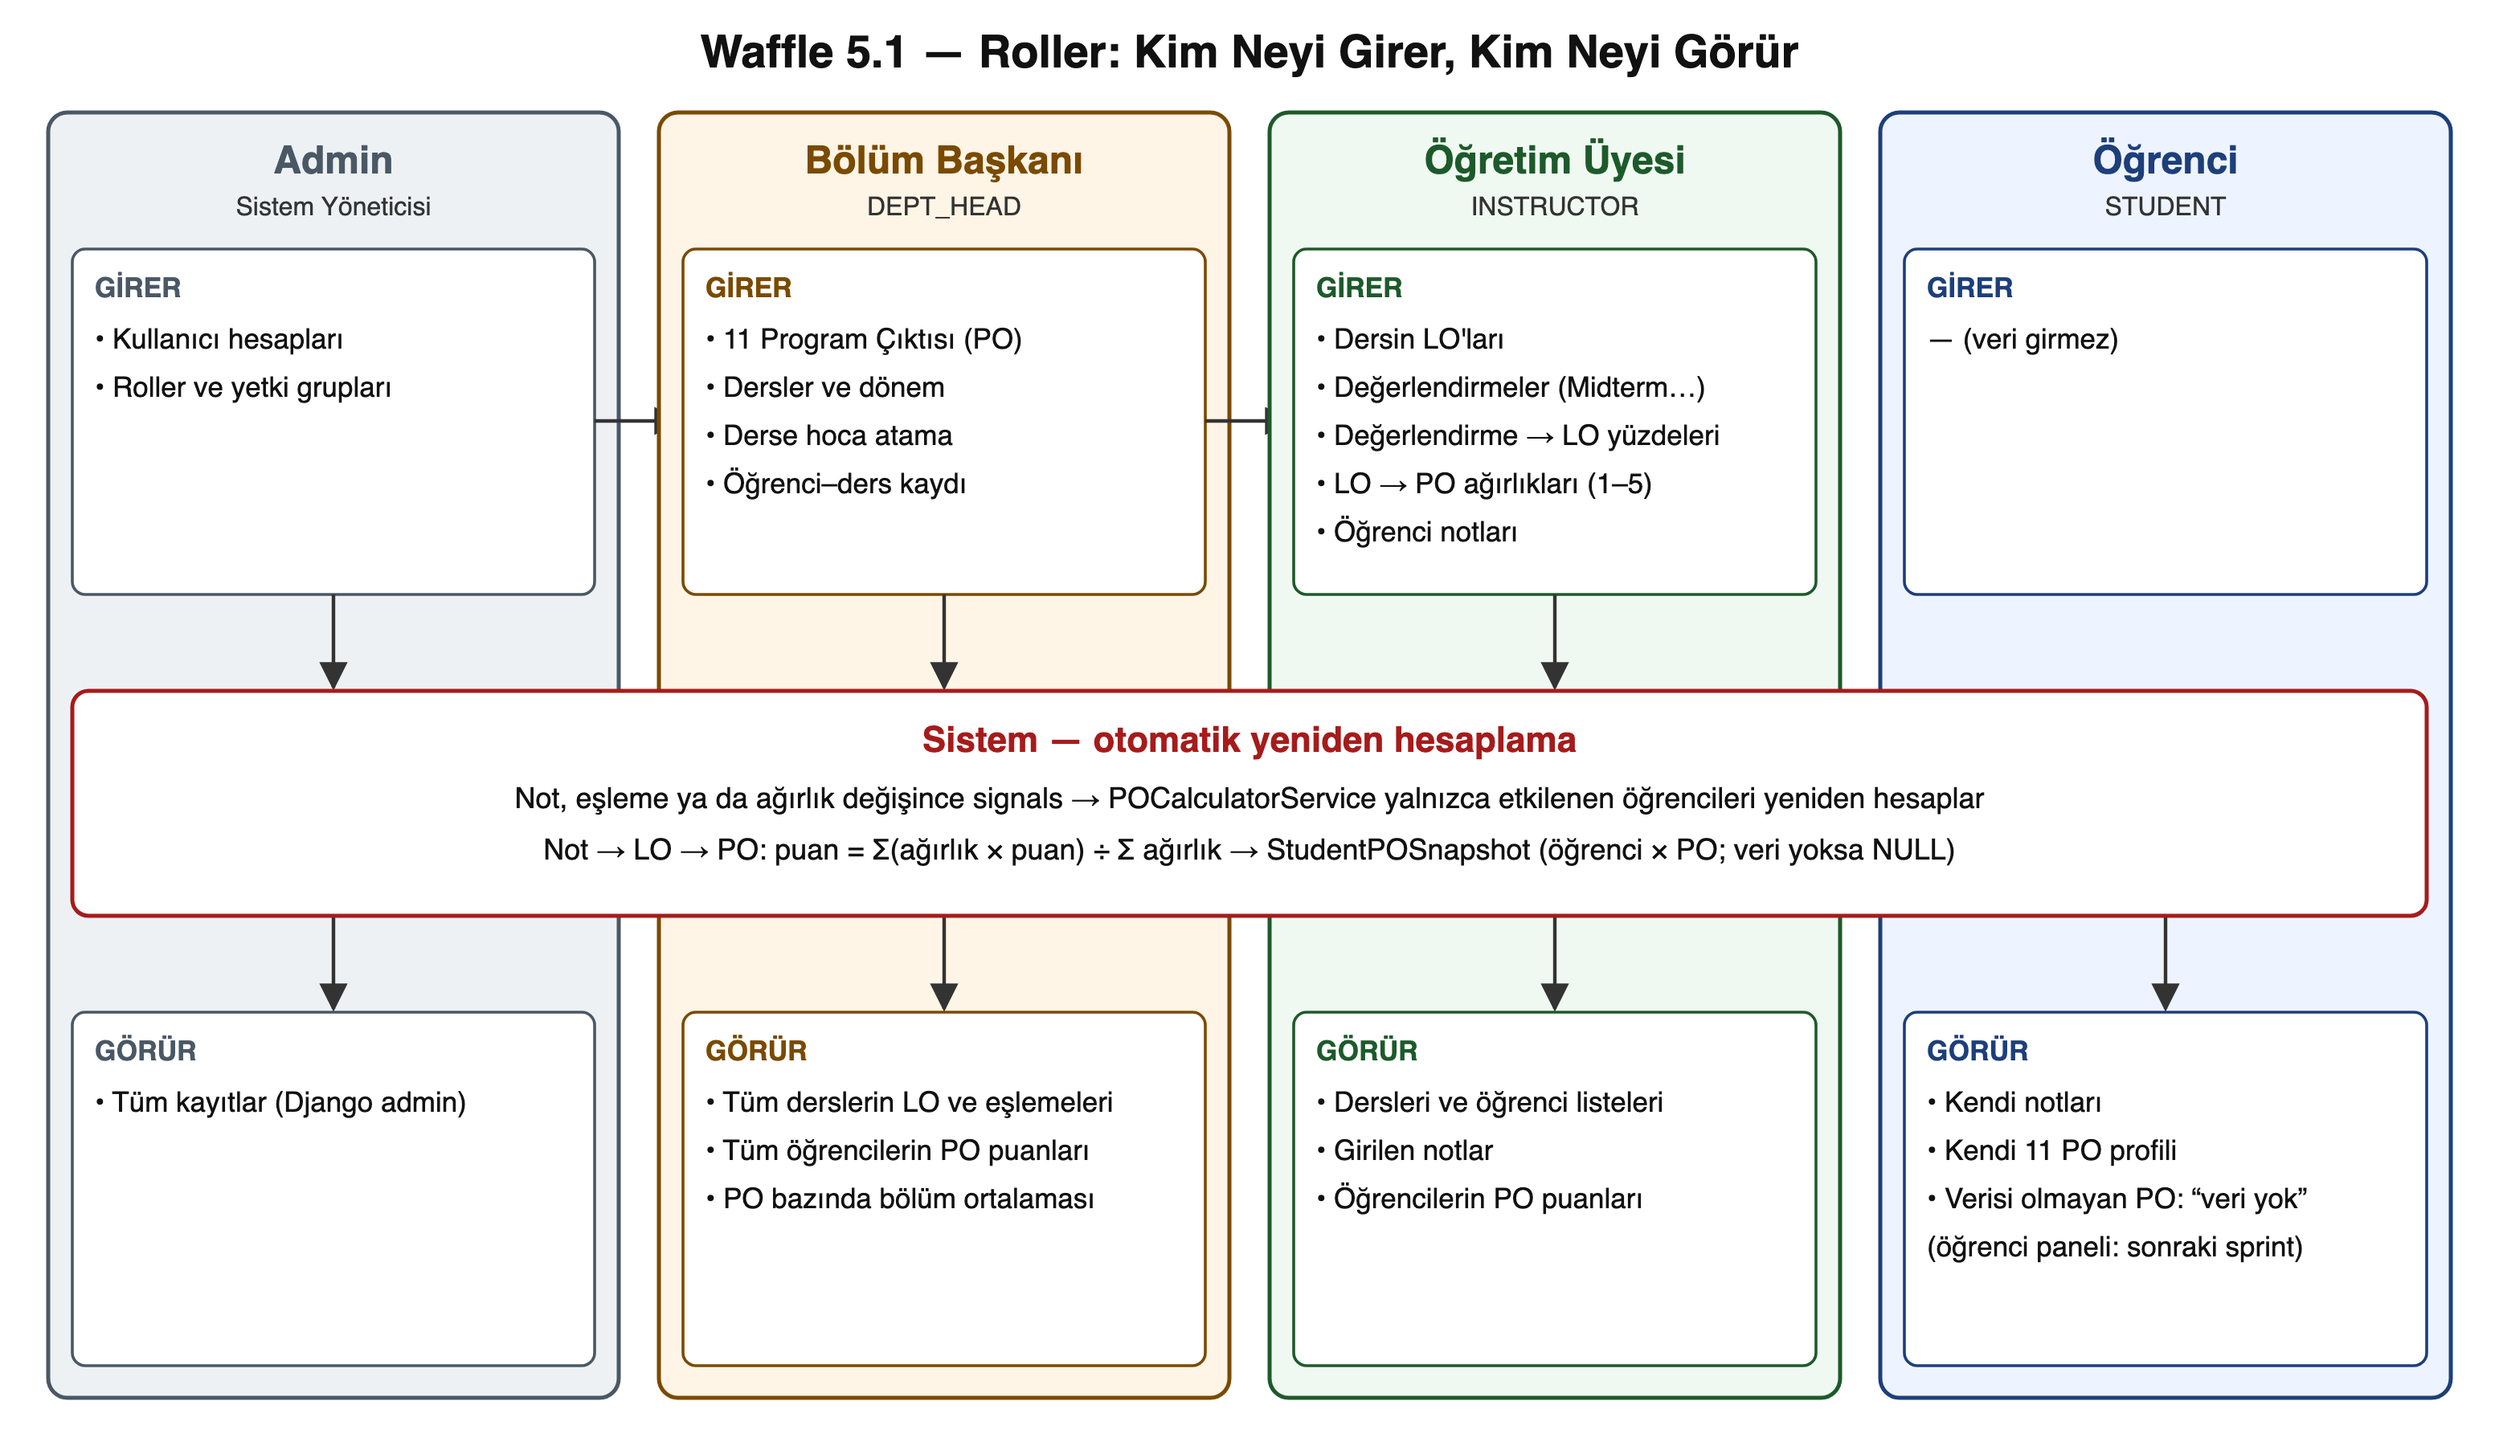
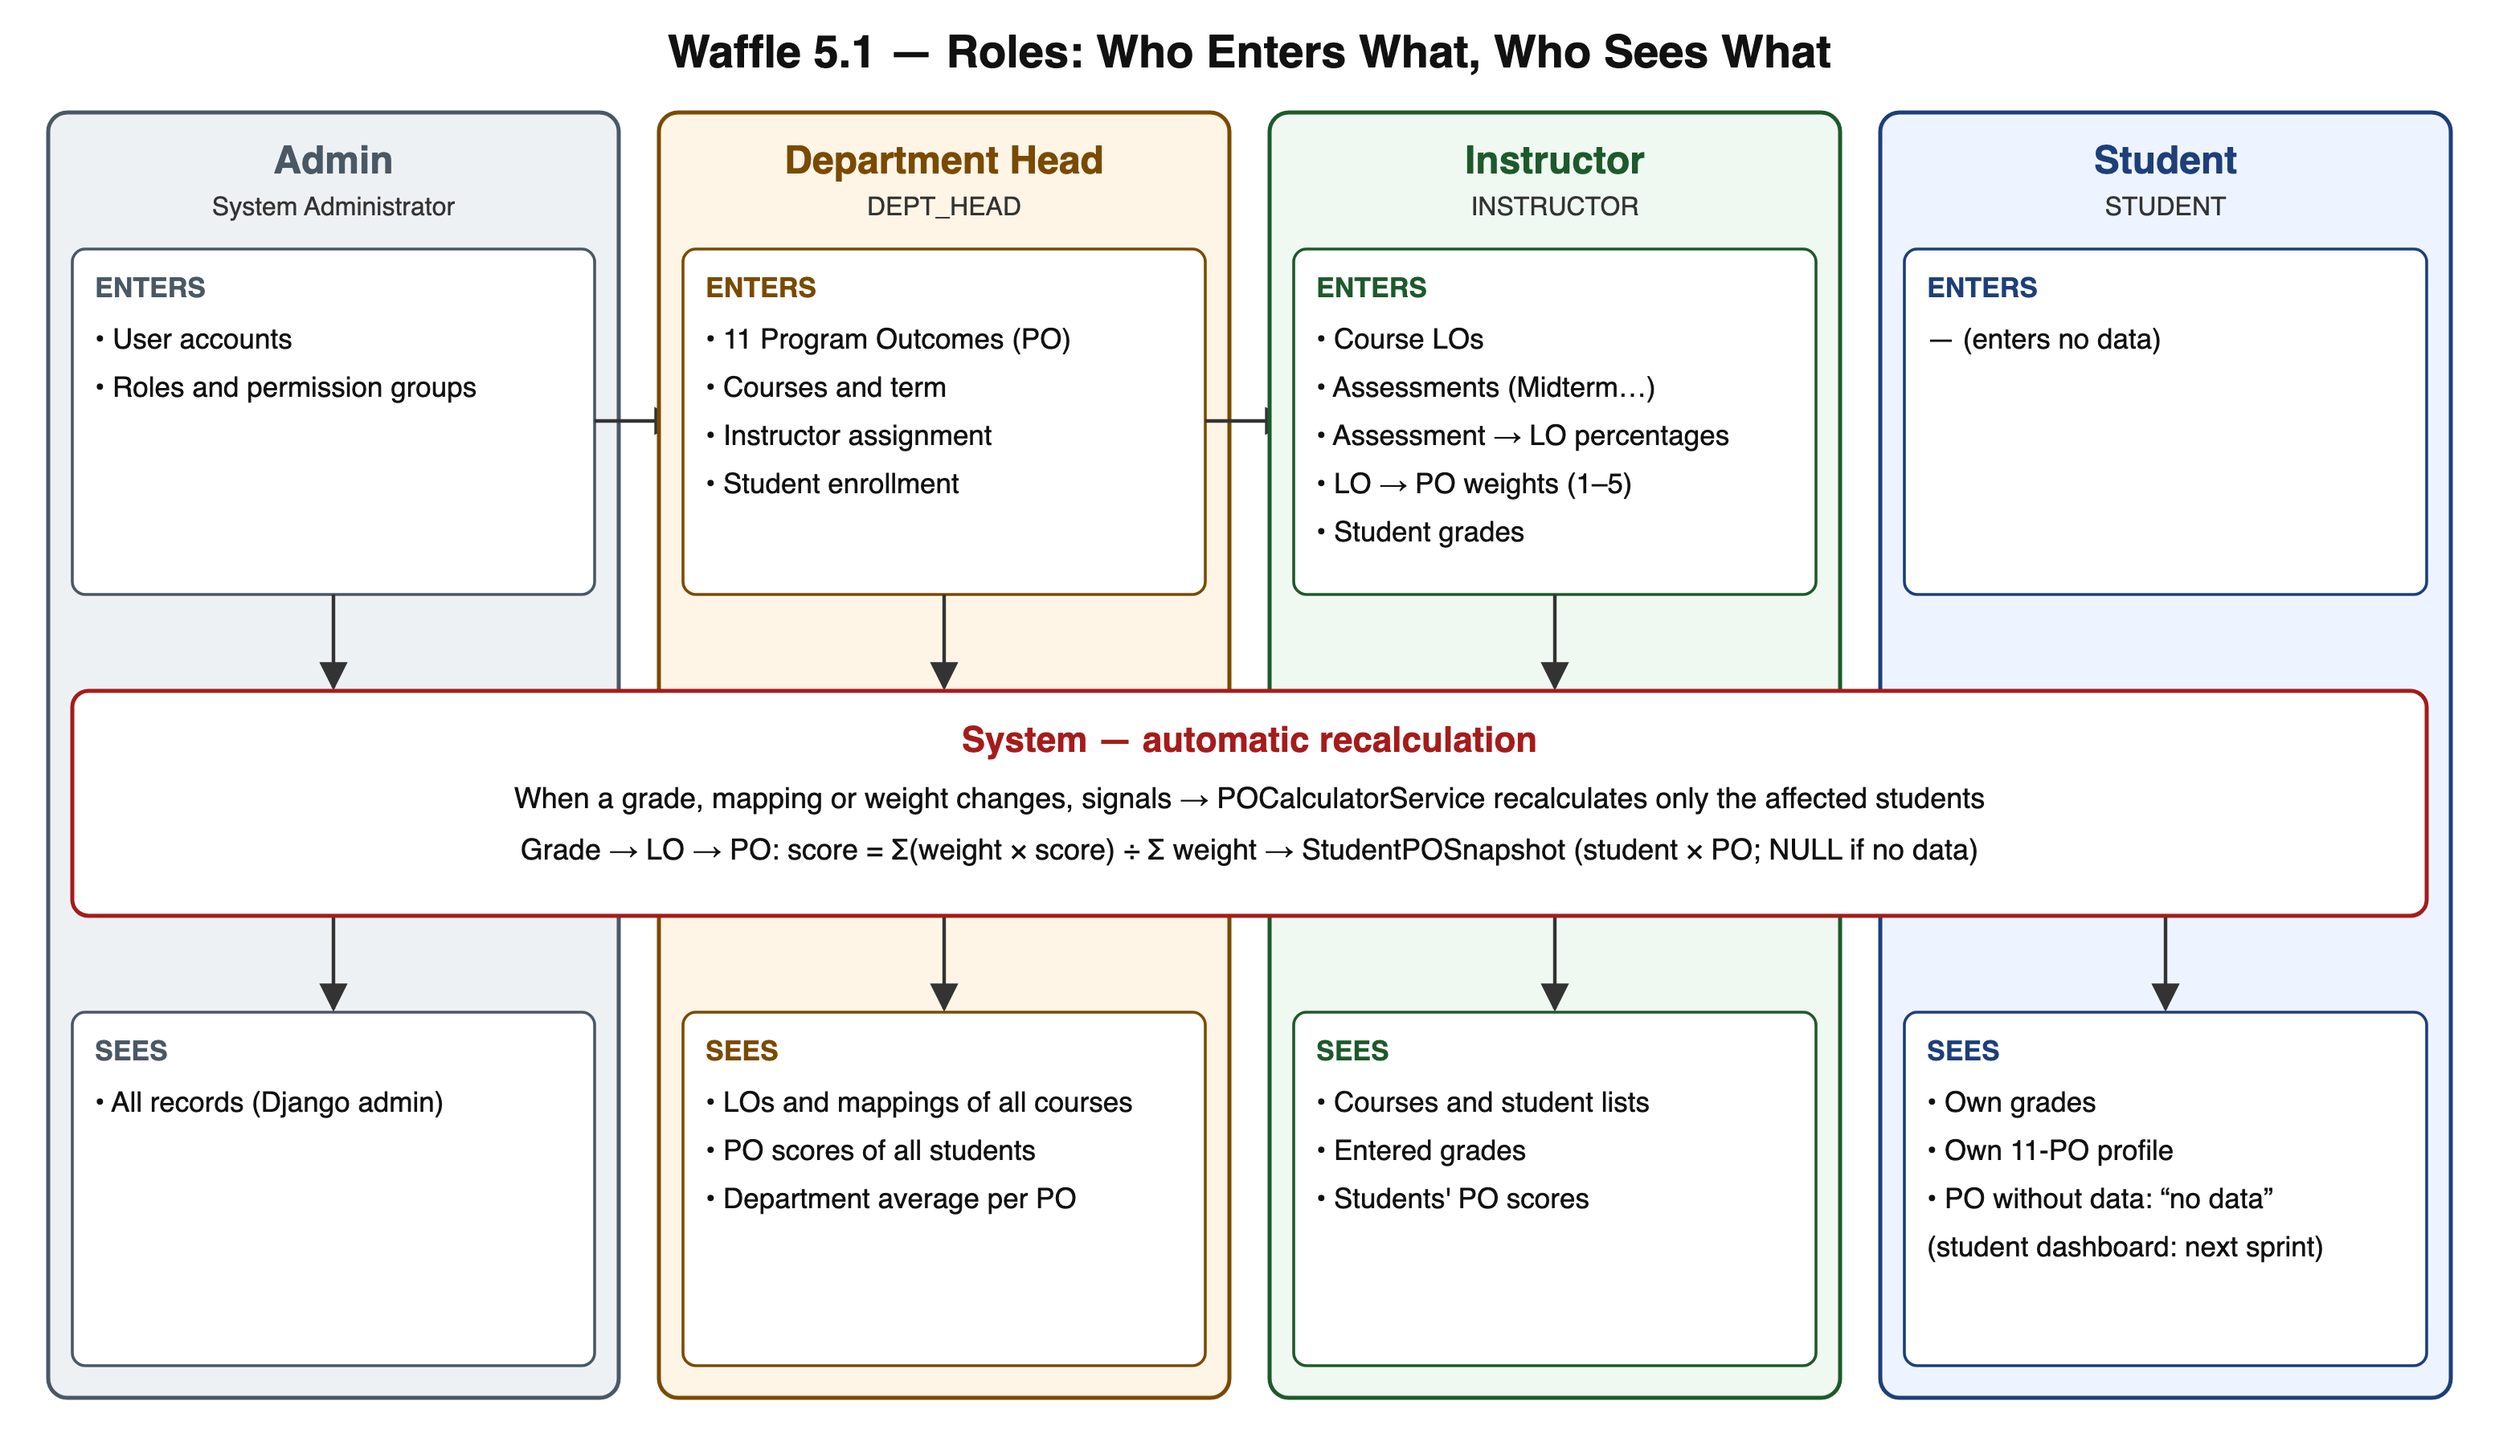
docs: translate role flow diagram to English

diff --git a/docs/diagrams/_gen_roles.py b/docs/diagrams/_gen_roles.py
@@ -3,24 +3,24 @@ from pathlib import Path
 
 LW, GAP, X0 = 355, 25, 30
 LANES = [
-    ("Admin", "Sistem Yöneticisi", "#4a5866", "#eef1f4",
-     ["Kullanıcı hesapları", "Roller ve yetki grupları"],
-     ["Tüm kayıtlar (Django admin)"]),
-    ("Bölüm Başkanı", "DEPT_HEAD", "#7a4a00", "#fff5e6",
-     ["11 Program Çıktısı (PO)", "Dersler ve dönem", "Derse hoca atama", "Öğrenci–ders kaydı"],
-     ["Tüm derslerin LO ve eşlemeleri", "Tüm öğrencilerin PO puanları", "PO bazında bölüm ortalaması"]),
-    ("Öğretim Üyesi", "INSTRUCTOR", "#1d5a2b", "#f0f9f1",
-     ["Dersin LO'ları", "Değerlendirmeler (Midterm…)", "Değerlendirme → LO yüzdeleri", "LO → PO ağırlıkları (1–5)", "Öğrenci notları"],
-     ["Dersleri ve öğrenci listeleri", "Girilen notlar", "Öğrencilerin PO puanları"]),
-    ("Öğrenci", "STUDENT", "#1d3f7a", "#eef4ff",
-     ["— (veri girmez)"],
-     ["Kendi notları", "Kendi 11 PO profili", "Verisi olmayan PO: “veri yok”", "(öğrenci paneli: sonraki sprint)"]),
+    ("Admin", "System Administrator", "#4a5866", "#eef1f4",
+     ["User accounts", "Roles and permission groups"],
+     ["All records (Django admin)"]),
+    ("Department Head", "DEPT_HEAD", "#7a4a00", "#fff5e6",
+     ["11 Program Outcomes (PO)", "Courses and term", "Instructor assignment", "Student enrollment"],
+     ["LOs and mappings of all courses", "PO scores of all students", "Department average per PO"]),
+    ("Instructor", "INSTRUCTOR", "#1d5a2b", "#f0f9f1",
+     ["Course LOs", "Assessments (Midterm…)", "Assessment → LO percentages", "LO → PO weights (1–5)", "Student grades"],
+     ["Courses and student lists", "Entered grades", "Students' PO scores"]),
+    ("Student", "STUDENT", "#1d3f7a", "#eef4ff",
+     ["— (enters no data)"],
+     ["Own grades", "Own 11-PO profile", "PO without data: “no data”", "(student dashboard: next sprint)"]),
 ]
 W = X0 * 2 + 4 * LW + 3 * GAP
 o = [f'<svg xmlns="http://www.w3.org/2000/svg" viewBox="0 0 {W} 900" font-family="Helvetica, Arial, sans-serif">',
      '<defs><marker id="a" viewBox="0 0 10 10" refX="9" refY="5" markerWidth="8" markerHeight="8" orient="auto"><path d="M0 0L10 5L0 10z" fill="#333"/></marker></defs>',
      f'<rect width="{W}" height="900" fill="#fff"/>',
-     f'<text x="{W/2}" y="42" text-anchor="middle" font-size="28" font-weight="bold" fill="#111">Waffle 5.1 — Roller: Kim Neyi Girer, Kim Neyi Görür</text>']
+     f'<text x="{W/2}" y="42" text-anchor="middle" font-size="28" font-weight="bold" fill="#111">Waffle 5.1 — Roles: Who Enters What, Who Sees What</text>']
 
 
 def box(x, y, w, hgt, title, items, stroke):
@@ -36,8 +36,8 @@ for i, (name, sub, stroke, fill, enters, sees) in enumerate(LANES):
     o.append(f'<rect x="{x}" y="70" width="{LW}" height="800" rx="12" fill="{fill}" stroke="{stroke}" stroke-width="2.5"/>')
     o.append(f'<text x="{x+LW/2}" y="108" text-anchor="middle" font-size="24" font-weight="bold" fill="{stroke}">{name}</text>')
     o.append(f'<text x="{x+LW/2}" y="134" text-anchor="middle" font-size="16" fill="#333">{sub}</text>')
-    box(x + 15, 155, LW - 30, 215, "GİRER", enters, stroke)
-    box(x + 15, 630, LW - 30, 220, "GÖRÜR", sees, stroke)
+    box(x + 15, 155, LW - 30, 215, "ENTERS", enters, stroke)
+    box(x + 15, 630, LW - 30, 220, "SEES", sees, stroke)
     cx = x + LW / 2
     if i < 3:
         o.append(f'<line x1="{cx}" y1="370" x2="{cx}" y2="428" stroke="#333" stroke-width="2.2" marker-end="url(#a)"/>')
@@ -46,8 +46,8 @@ for i, (name, sub, stroke, fill, enters, sees) in enumerate(LANES):
         o.append(f'<line x1="{x+LW-15}" y1="262" x2="{x+LW+GAP+13}" y2="262" stroke="#333" stroke-width="2.2" marker-end="url(#a)"/>')
 
 o.append(f'<rect x="{X0+15}" y="430" width="{W-2*X0-30}" height="140" rx="10" fill="#fff" stroke="#a61b1b" stroke-width="2.5"/>')
-o.append(f'<text x="{W/2}" y="468" text-anchor="middle" font-size="22" font-weight="bold" fill="#a61b1b">Sistem — otomatik yeniden hesaplama</text>')
-o.append(f'<text x="{W/2}" y="503" text-anchor="middle" font-size="18" fill="#111">Not, eşleme ya da ağırlık değişince signals → POCalculatorService yalnızca etkilenen öğrencileri yeniden hesaplar</text>')
-o.append(f'<text x="{W/2}" y="535" text-anchor="middle" font-size="18" fill="#111">Not → LO → PO:  puan = Σ(ağırlık × puan) ÷ Σ ağırlık   →   StudentPOSnapshot (öğrenci × PO; veri yoksa NULL)</text>')
+o.append(f'<text x="{W/2}" y="468" text-anchor="middle" font-size="22" font-weight="bold" fill="#a61b1b">System — automatic recalculation</text>')
+o.append(f'<text x="{W/2}" y="503" text-anchor="middle" font-size="18" fill="#111">When a grade, mapping or weight changes, signals → POCalculatorService recalculates only the affected students</text>')
+o.append(f'<text x="{W/2}" y="535" text-anchor="middle" font-size="18" fill="#111">Grade → LO → PO:  score = Σ(weight × score) ÷ Σ weight   →   StudentPOSnapshot (student × PO; NULL if no data)</text>')
 o.append("</svg>")
 Path(__file__).with_name("roles.svg").write_text("\n".join(o), encoding="utf-8")
